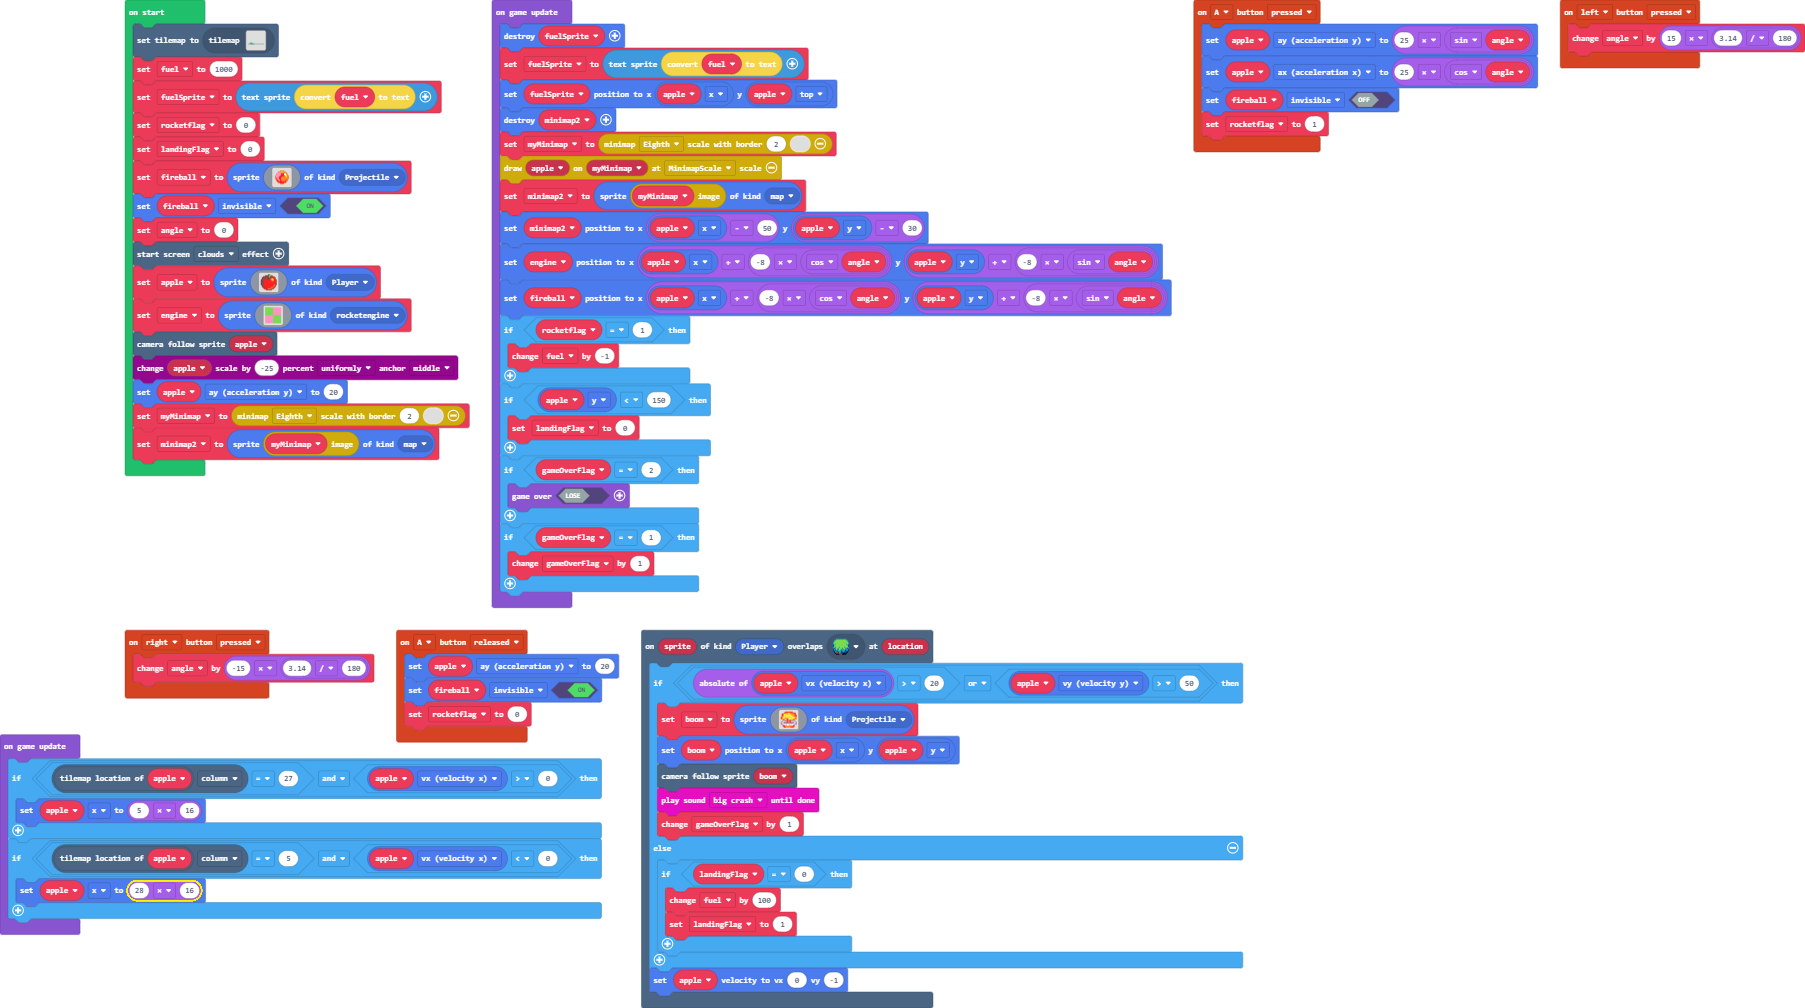
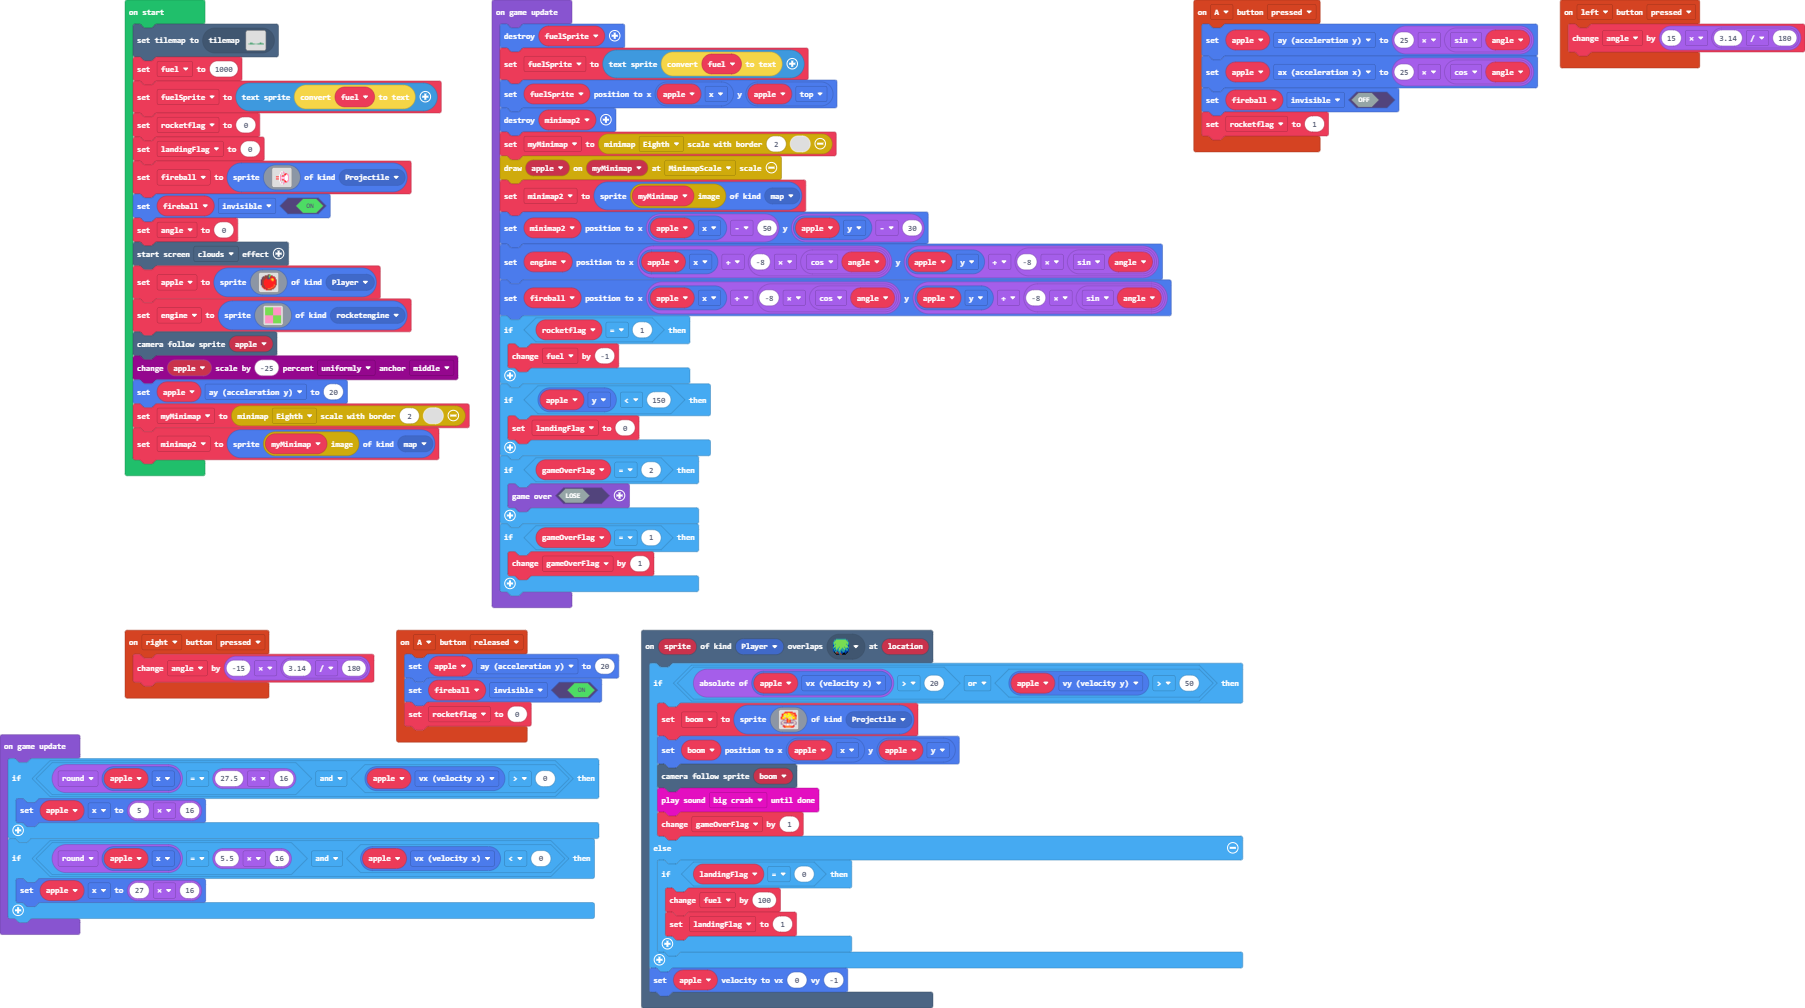
still working o wrapping

Changed region(s): [[0.031, 0.7381, 0.3413, 0.7996], [0.031, 0.8304, 0.3413, 0.8919]]

diff --git a/main.ts b/main.ts
@@ -65,20 +65,20 @@ rocketflag = 0
 landingFlag = 0
 fireball = sprites.create(img`
     . . . . . . . . . . . . . . . . 
-    . . . . . . 4 4 4 4 . . . . . . 
-    . . . . 4 4 4 5 5 4 4 4 . . . . 
-    . . . 3 3 3 3 4 4 4 4 4 4 . . . 
-    . . 4 3 3 3 3 2 2 2 1 1 4 4 . . 
-    . . 3 3 3 3 3 2 2 2 1 1 5 4 . . 
-    . 4 3 3 3 3 2 2 2 2 2 5 5 4 4 . 
-    . 4 3 3 3 2 2 2 4 4 4 4 5 4 4 . 
-    . 4 4 3 3 2 2 4 4 4 4 4 4 4 4 . 
-    . 4 2 3 3 2 2 4 4 4 4 4 4 4 4 . 
-    . . 4 2 3 3 2 4 4 4 4 4 2 4 . . 
-    . . 4 2 2 3 2 2 4 4 4 2 4 4 . . 
-    . . . 4 2 2 2 2 2 2 2 2 4 . . . 
-    . . . . 4 4 2 2 2 2 4 4 . . . . 
-    . . . . . . 4 4 4 4 . . . . . . 
+    . . . . . . . . . . . . . . . . 
+    . . . . . . . 1 1 3 . . . . . . 
+    . . . . . . 1 3 . 3 3 . . . . . 
+    . . . . . . 1 . . . 3 2 2 3 . . 
+    . . . . . 1 3 . . . 2 2 1 3 3 . 
+    . . . . . 1 3 . 2 2 3 1 1 1 3 . 
+    . . 2 2 2 1 3 3 3 3 3 1 1 1 3 . 
+    . . 1 1 1 1 3 1 1 1 1 1 1 1 3 . 
+    . . 2 2 2 1 3 3 3 3 3 1 1 1 3 . 
+    . . . . . 1 3 . 2 2 3 1 1 1 3 . 
+    . . . . . 1 3 . . . 2 2 1 3 3 . 
+    . . . . . . 1 . . . 3 2 2 3 . . 
+    . . . . . . 1 3 . 3 3 . . . . . 
+    . . . . . . . 1 1 3 . . . . . . 
     . . . . . . . . . . . . . . . . 
     `, SpriteKind.Projectile)
 fireball.setFlag(SpriteFlag.Invisible, true)
@@ -136,10 +136,10 @@ game.onUpdate(function () {
     }
 })
 game.onUpdate(function () {
-    if (apple.tilemapLocation().column == 27 && apple.vx > 0) {
+    if (Math.round(apple.x) == 27.5 * 16 && apple.vx > 0) {
         apple.x = 5 * 16
     }
-    if (apple.tilemapLocation().column == 5 && apple.vx < 0) {
-        apple.x = 28 * 16
+    if (Math.round(apple.x) == 5.5 * 16 && apple.vx < 0) {
+        apple.x = 27 * 16
     }
 })
